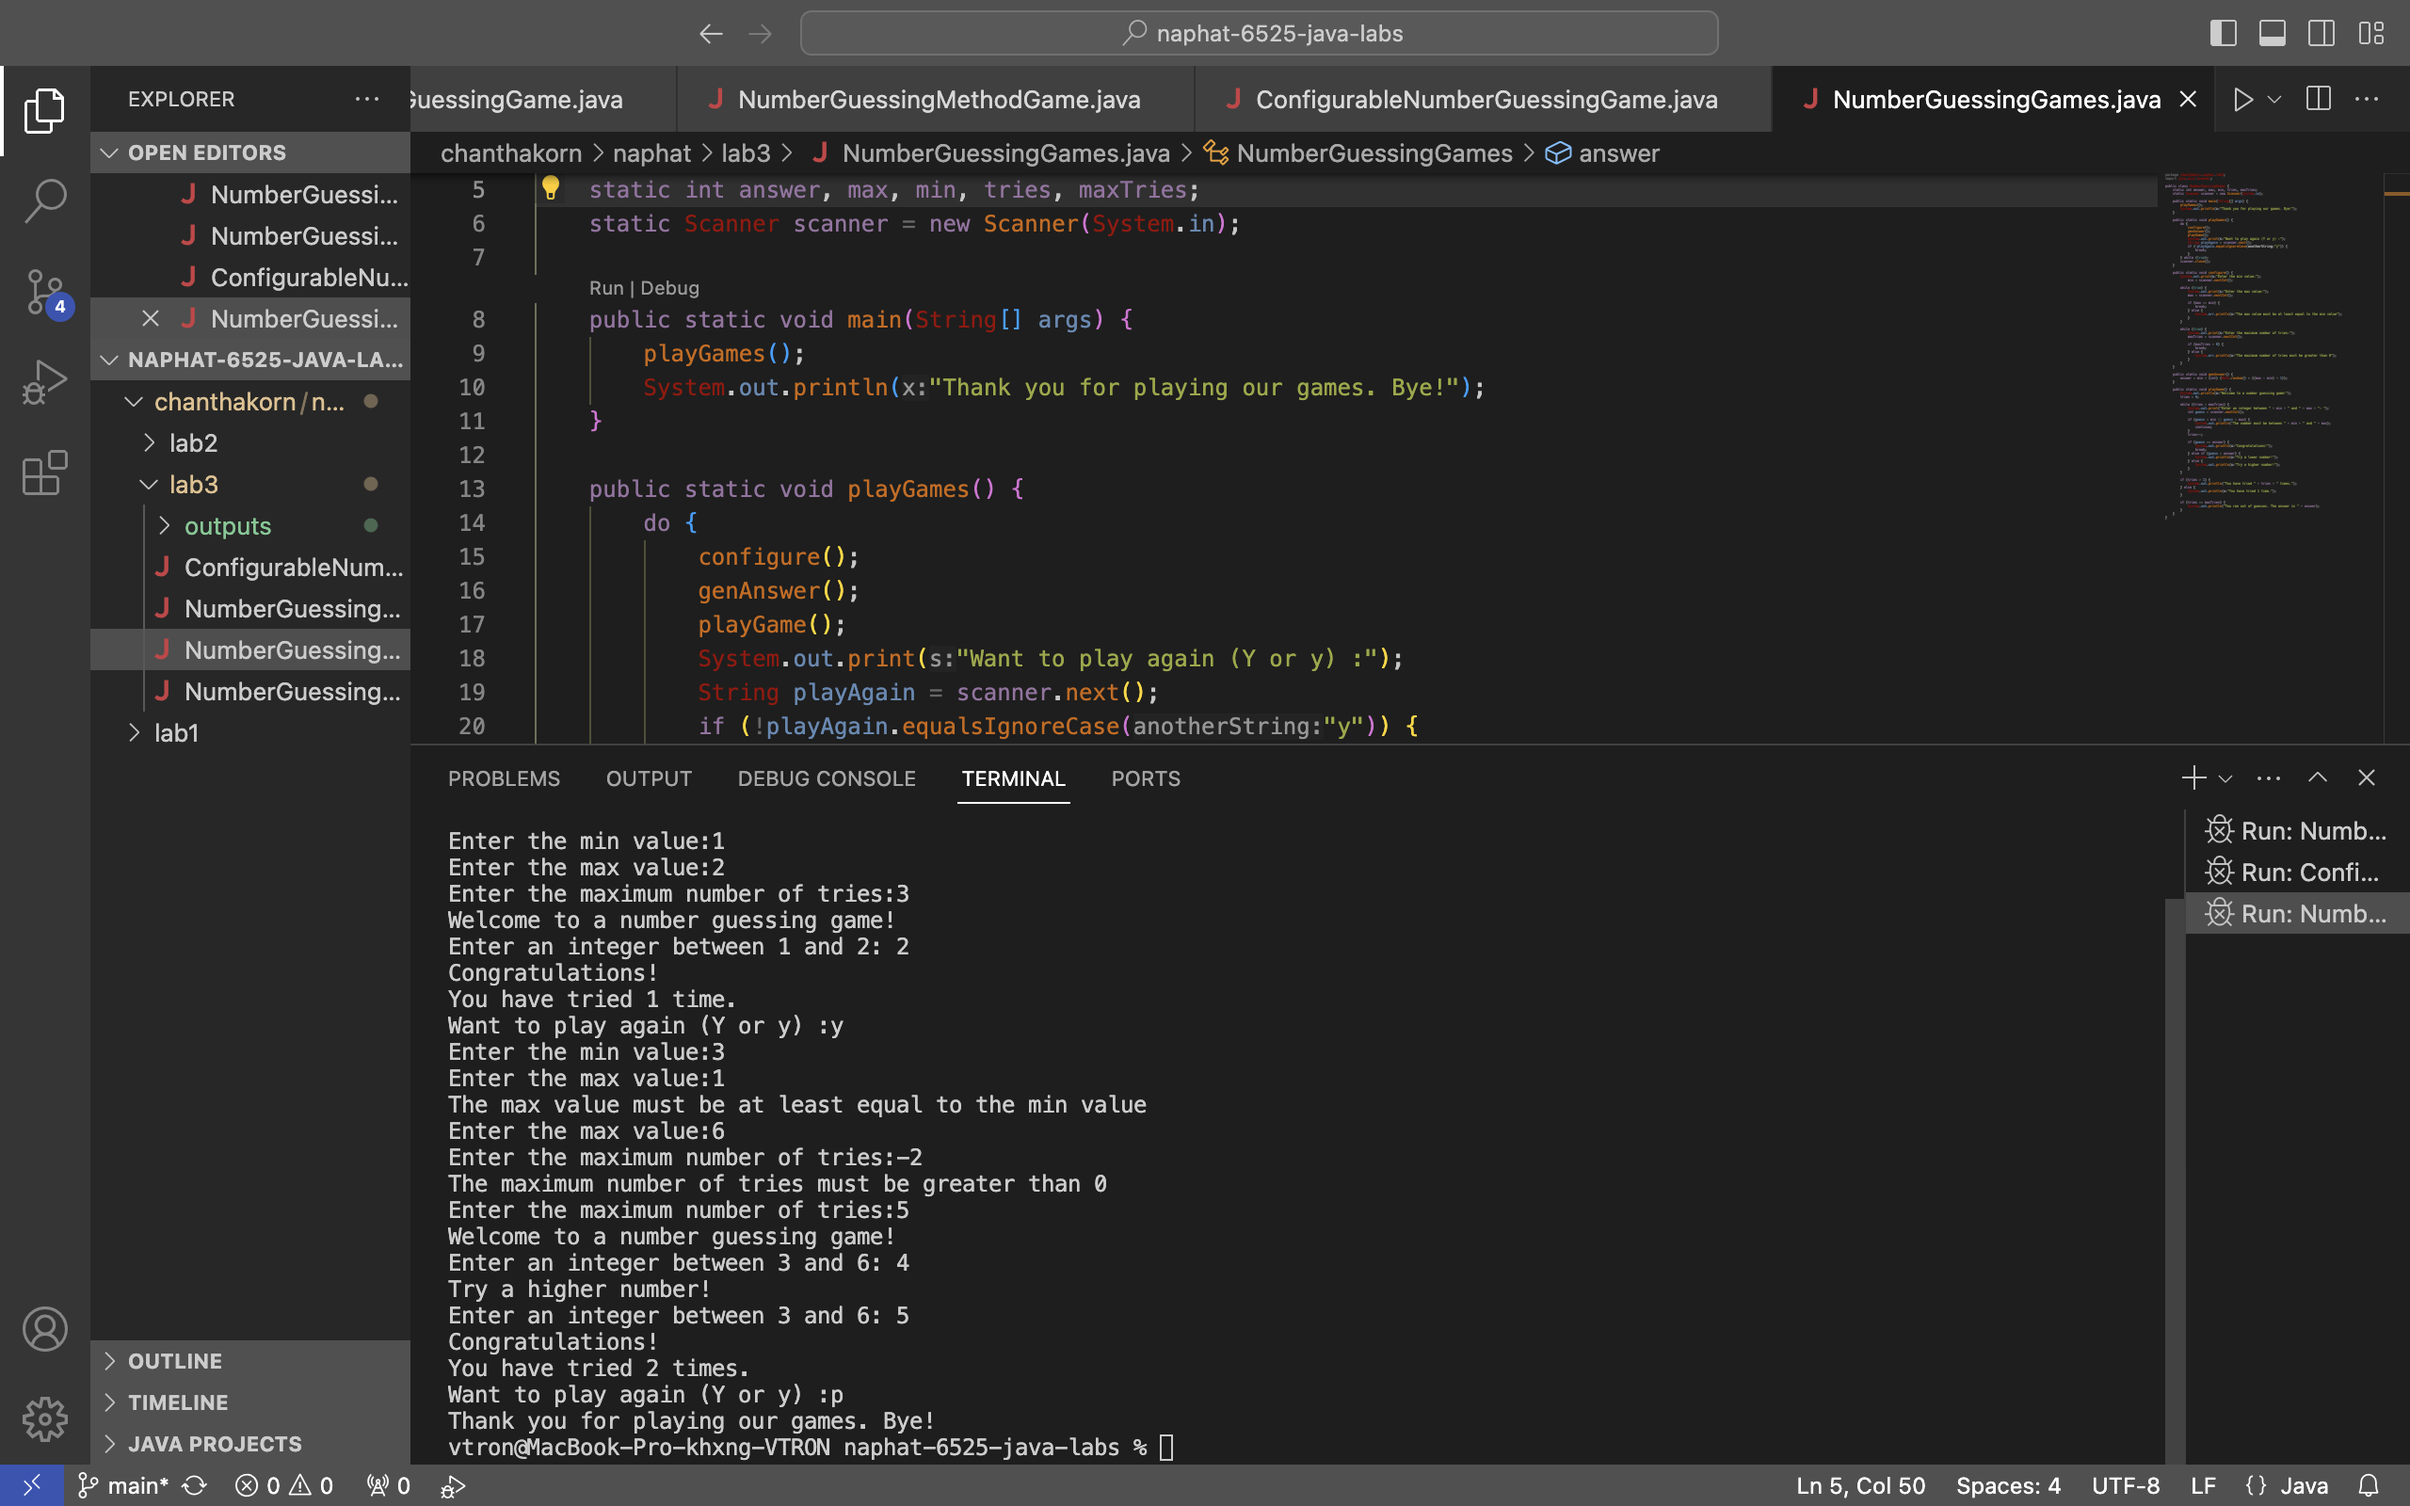
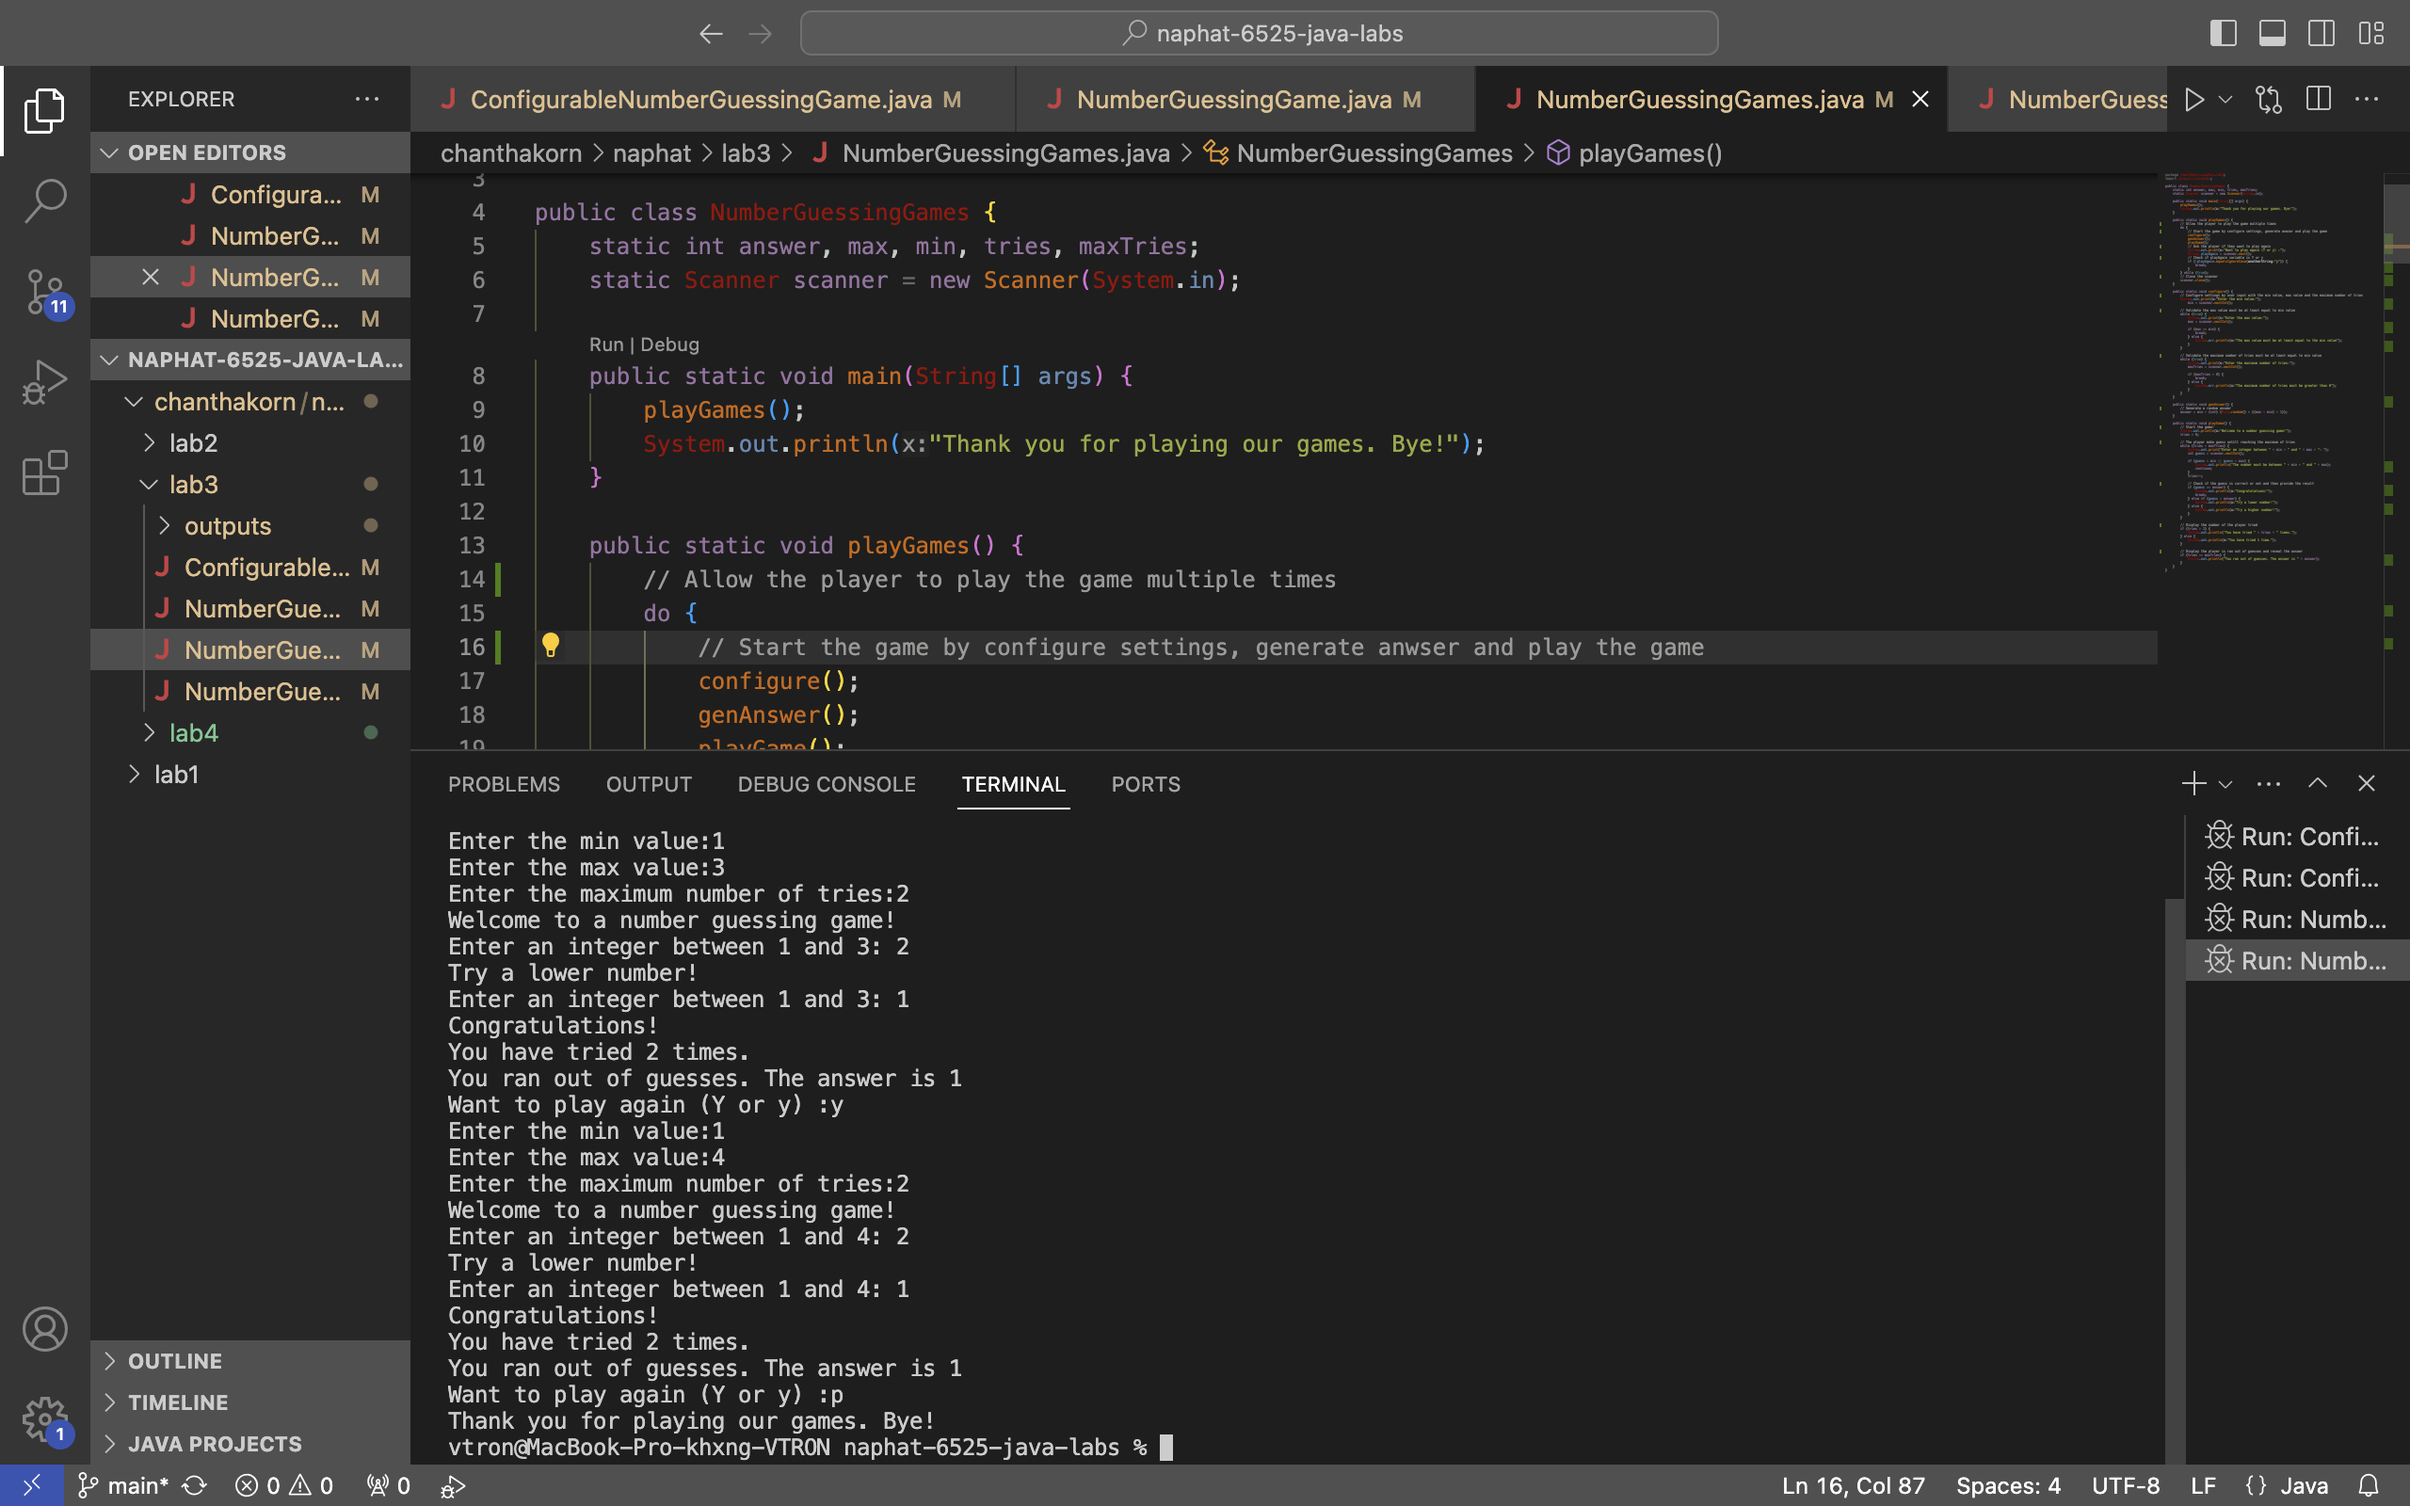
add comments & outputs

diff --git a/chanthakorn/naphat/lab4/GuessNumberGamesV2.java b/chanthakorn/naphat/lab4/GuessNumberGamesV2.java
@@ -1,7 +1,7 @@
-package chanthakorn.naphat.lab3;
+package chanthakorn.naphat.lab4;
 import java.util.Scanner;
 
-public class NumberGuessingGames {
+public class GuessNumberGamesV2 {
     static int answer, max, min, tries, maxTries;
     static Scanner scanner = new Scanner(System.in);
 
@@ -11,30 +11,26 @@ public class NumberGuessingGames {
     }
 
     public static void playGames() {
-        // Allow the player to play the game multiple times
         do {
-            // Start the game by configure settings, generate anwser and play the game
             configure();
             genAnswer();
             playGame();
-            // Ask the player if they want to play again
+
             System.out.print("Want to play again (Y or y) :");
             String playAgain = scanner.next();
-            // Check if playAgain variable is Y or y
+
             if (!playAgain.equalsIgnoreCase("y")) {
                 break;
             }
+            
         } while (true);
-        // Close the scanner
         scanner.close();
     }
 
     public static void configure() {
-        // Configure settings by user input with the min value, max value and the maximum number of tries
         System.out.print("Enter the min value:");
             min = scanner.nextInt();
 
-        // Validate the max value must be at least equal to min value
         while (true) {
             System.out.print("Enter the max value:");
             max = scanner.nextInt();
@@ -46,7 +42,6 @@ public class NumberGuessingGames {
             }
         }
 
-        // Validate the maximum number of tries must be at least equal to min value
         while (true) {
             System.out.print("Enter the maximum number of tries:");
             maxTries = scanner.nextInt();
@@ -60,27 +55,23 @@ public class NumberGuessingGames {
     }
 
     public static void genAnswer() {
-        // Generate a random answer
         answer = min + (int) (Math.random() * ((max - min) + 1));
     }
 
     public static void playGame() {
-        // Start the game!
         System.out.println("Welcome to a number guessing game!");
         tries = 0;
 
-        // The player make guess untill reaching the maximum of tries
         while (tries < maxTries) {
             System.out.print("Enter an integer between " + min + " and " + max + ": ");
             int guess = scanner.nextInt();
 
             if (guess < min || guess > max) {
-                System.out.println("The number must be between " + min + " and " + max);
+                System.out.println("Your guess should be in [" + min + "," + max + "]:");
                 continue;
             }
             tries++;
 
-            // Check if the guess is correct or not and then provide the result
             if (guess == answer) {
                 System.out.println("Congratulations!");
                 break;
@@ -91,14 +82,12 @@ public class NumberGuessingGames {
             }
         }
 
-        // Display the number of the player tried
         if (tries > 1) {
             System.out.println("You have tried " + tries + " times.");
         } else {
             System.out.println("You have tried 1 time.");
         }
 
-        // Display the player is ran out of guesses and reveal the answer
         if (tries == maxTries) {
             System.out.println("You ran out of guesses. The answer is " + answer);
         }

diff --git a/chanthakorn/naphat/lab3/ConfigurableNumberGuessingGame.java b/chanthakorn/naphat/lab3/ConfigurableNumberGuessingGame.java
@@ -6,12 +6,14 @@ public class ConfigurableNumberGuessingGame {
     static Scanner scanner = new Scanner(System.in);
 
     public static void main(String[] args) {
+        // Start the game by configure settings, generate anwser and play the game
         configure();
         genAnswer();
         playGame();
     }
 
     public static void configure() {
+        // Configure settings by user input with the min value, max value and the maximum number of tries
         System.out.print("Enter the min value:");
         min = scanner.nextInt();
         System.out.print("Enter the max value:");
@@ -21,18 +23,22 @@ public class ConfigurableNumberGuessingGame {
     }
 
     public static void genAnswer() {
+        // Generate a random answer
         answer = min + (int) (Math.random() * ((max - min) + 1));
     }
 
     public static void playGame() {
+        // Start the game!
         System.out.println("Welcome to a number guessing game!");
         int tries = 0;
 
+        // The player make guess untill reaching the maximum of tries
         while (tries < maxTries) {
             System.out.print("Enter an integer between " + min + " and " + max + ":");
             int guess = scanner.nextInt();
             tries++;
 
+            // Check if the guess is correct or not and then provide the result
             if (guess == answer) {
                 System.out.println("Congratulations!");
                 break;
@@ -42,15 +48,18 @@ public class ConfigurableNumberGuessingGame {
                 System.out.println("Try a higher number!");
             }
         }
+        // Display the number of the player tried
         if (tries > 1) {
             System.out.println("You have tried " + tries + " times.");
         } else {
             System.out.println("You have tried 1 time");
         }
 
+        // Display the player is ran out of guesses and reveal the answer
         if (tries == maxTries) {
             System.out.println("You ran out of guesses. The answer is " + answer);
         }
+        // Close the scanner
         scanner.close();
     }
 }

diff --git a/chanthakorn/naphat/lab3/NumberGuessingMethodGame.java b/chanthakorn/naphat/lab3/NumberGuessingMethodGame.java
@@ -8,26 +8,33 @@ public class NumberGuessingMethodGame {
     final static int min = 1;
 
     public static void main(String[] args) {
+        // Start the game by generate anwser and play the game
         genAnswer();
         playGame();
     }
 
     public static void genAnswer() {
+        // Generate a random answer
         answer = min + (int) (Math.random() * ((max - min) + 1));
     }
 
     public static void playGame() {
+        // Start the game!
         System.out.println("Welcome to a number guessing game!");
+        // Set the guess and the maximum of tries
         int tries = 0;
         int maxTries = 5;
 
+        // Create Scanner for user input
         Scanner scanner = new Scanner(System.in);
 
+        // The player make guess untill reaching the maximum of tries
         while (tries < maxTries) {
             System.out.print("Enter an integer between 1 and 20:");
             int guess = scanner.nextInt();
             tries++;
 
+            // Check if the guess is correct or not and then provide the result
             if (guess == answer) {
                 System.out.println("Congratulations!");
                 break;
@@ -37,15 +44,17 @@ public class NumberGuessingMethodGame {
                 System.out.println("Try a higher number!");
             }
         }
+        // Display the number of the player tried
         if (tries > 1) {
             System.out.println("You have tried " + tries + " times.");
         } else {
             System.out.println("You have tried 1 time");
         }
-
+        // Display the player is ran out of guesses and reveal the answer
         if (tries == maxTries) {
             System.out.println("You ran out of guesses. The answer is " + answer);
         }
+        // Close the scanner
         scanner.close();
     }
 }

diff --git a/chanthakorn/naphat/lab3/NumberGuessingGame.java b/chanthakorn/naphat/lab3/NumberGuessingGame.java
@@ -4,21 +4,26 @@ import java.util.Scanner;
 
 public class NumberGuessingGame {
     public static void main(String[] args) {
+        // Start the game!
         System.out.println("Welcome to a number guessing game!");
 
-        int max = 20; 
+        // Set the range for the random number, generate the answer and set the guess and the maximum of tries
+        int max = 20;  
         int min = 1;
         int answer = min + (int) (Math.random() * ((max - min) + 1));
         int tries = 0;
         int maxTries = 5;
 
+        // Create Scanner for user input
         Scanner scanner = new Scanner(System.in);
 
+        // The player make guess untill reaching the maximum of tries
         while (tries < maxTries) {
             System.out.print("Enter an integer between 1 and 20:");
             int guess = scanner.nextInt();
             tries++;
 
+            // Check if the guess is correct or not and then provide the result
             if (guess == answer) {
                 System.out.println("Congratulations!");
                 break;
@@ -28,15 +33,18 @@ public class NumberGuessingGame {
                 System.out.println("Try a higher number!");
             }
         }
+        // Display the number of the player tried
         if (tries > 1) {
             System.out.println("You have tried " + tries + " times.");
         } else {
             System.out.println("You have tried 1 time");
         }
 
+        // Display the player is ran out of guesses and reveal the answer
         if (tries == maxTries) {
             System.out.println("You ran out of guesses. The answer is " + answer);
         }
+        // Close the scanner
         scanner.close();
     }
 }
